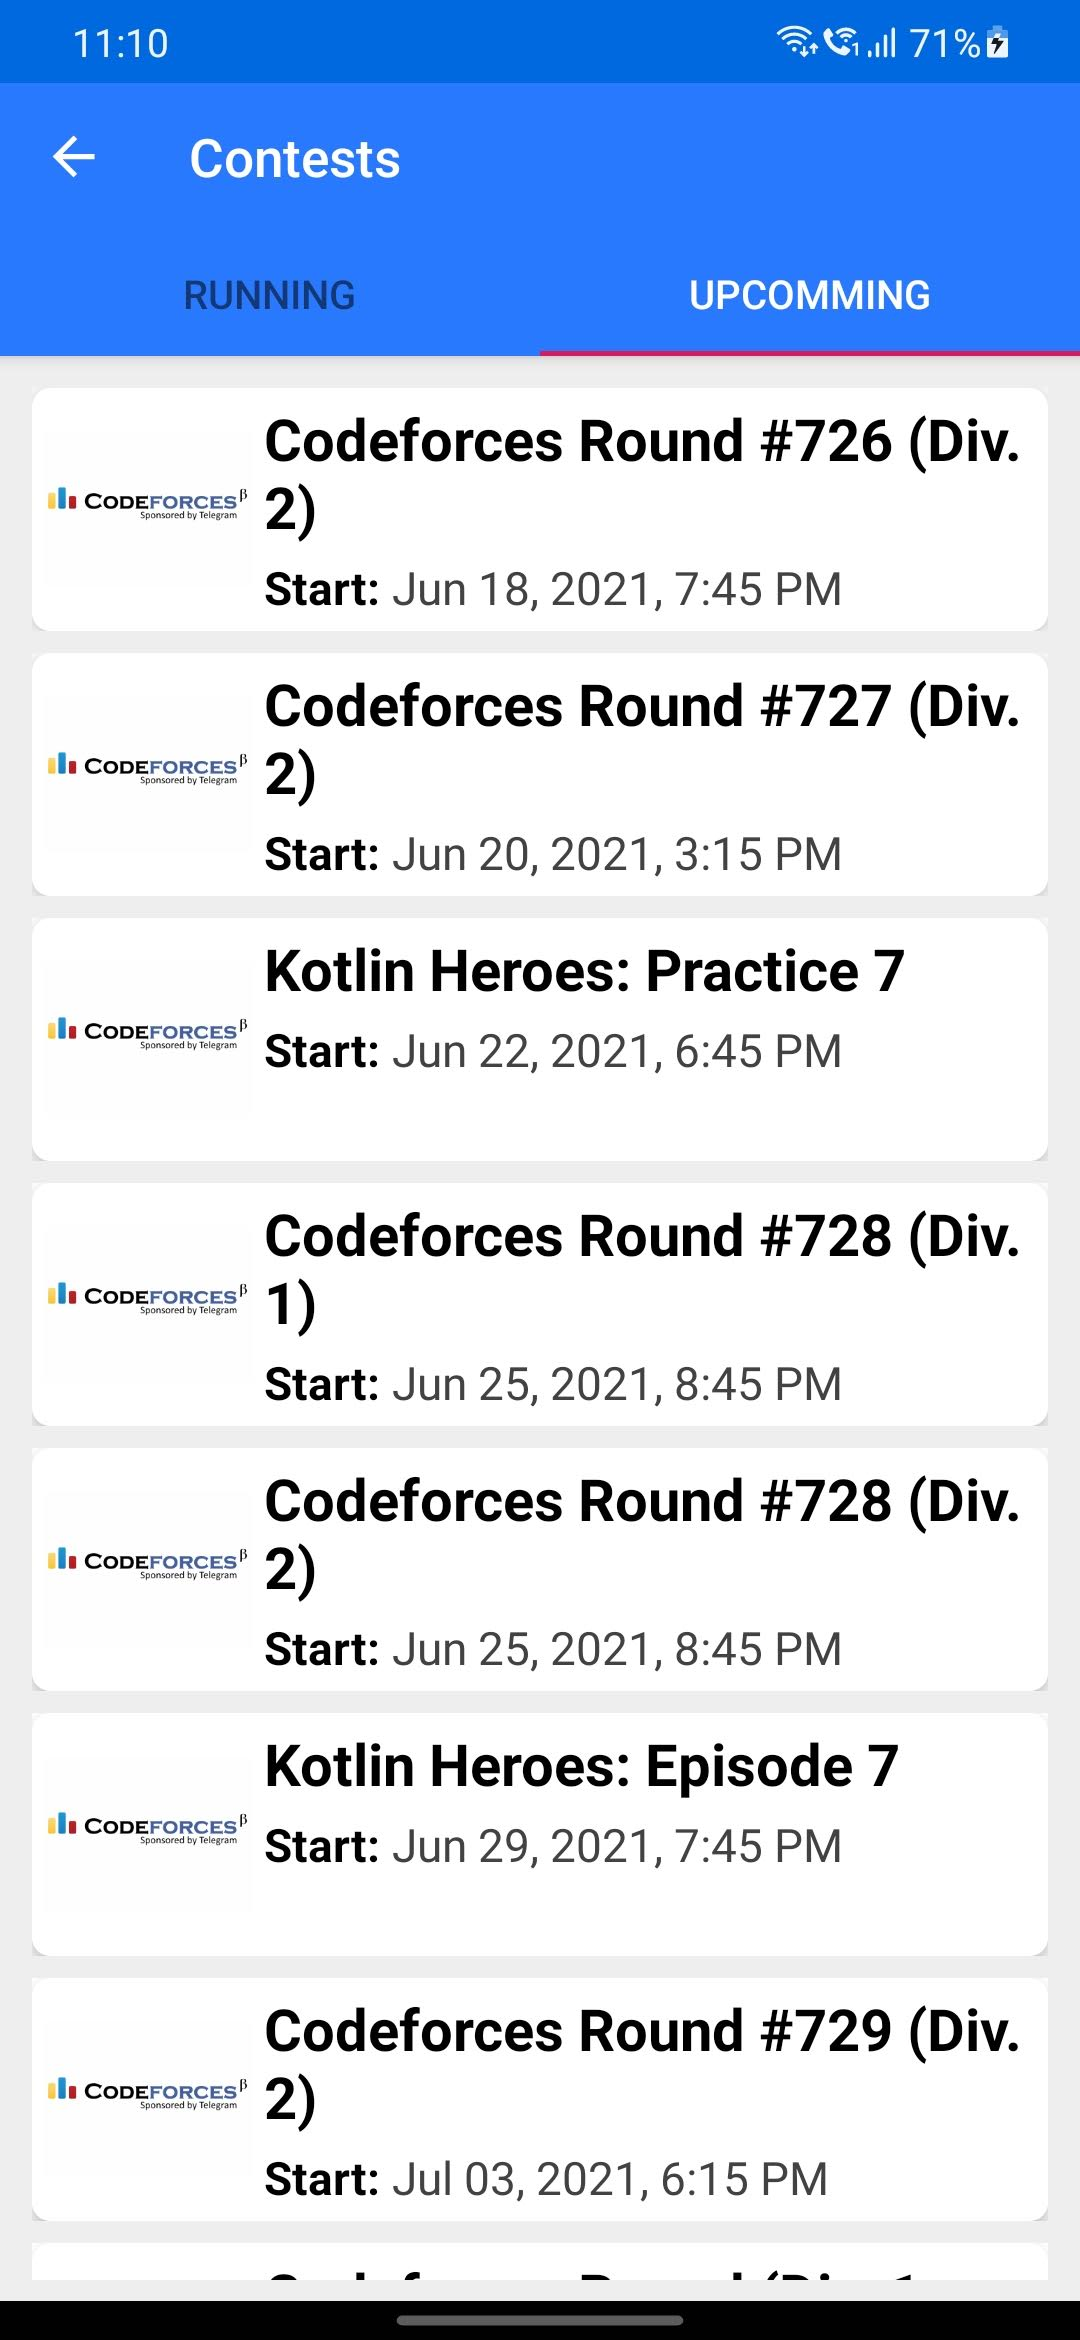
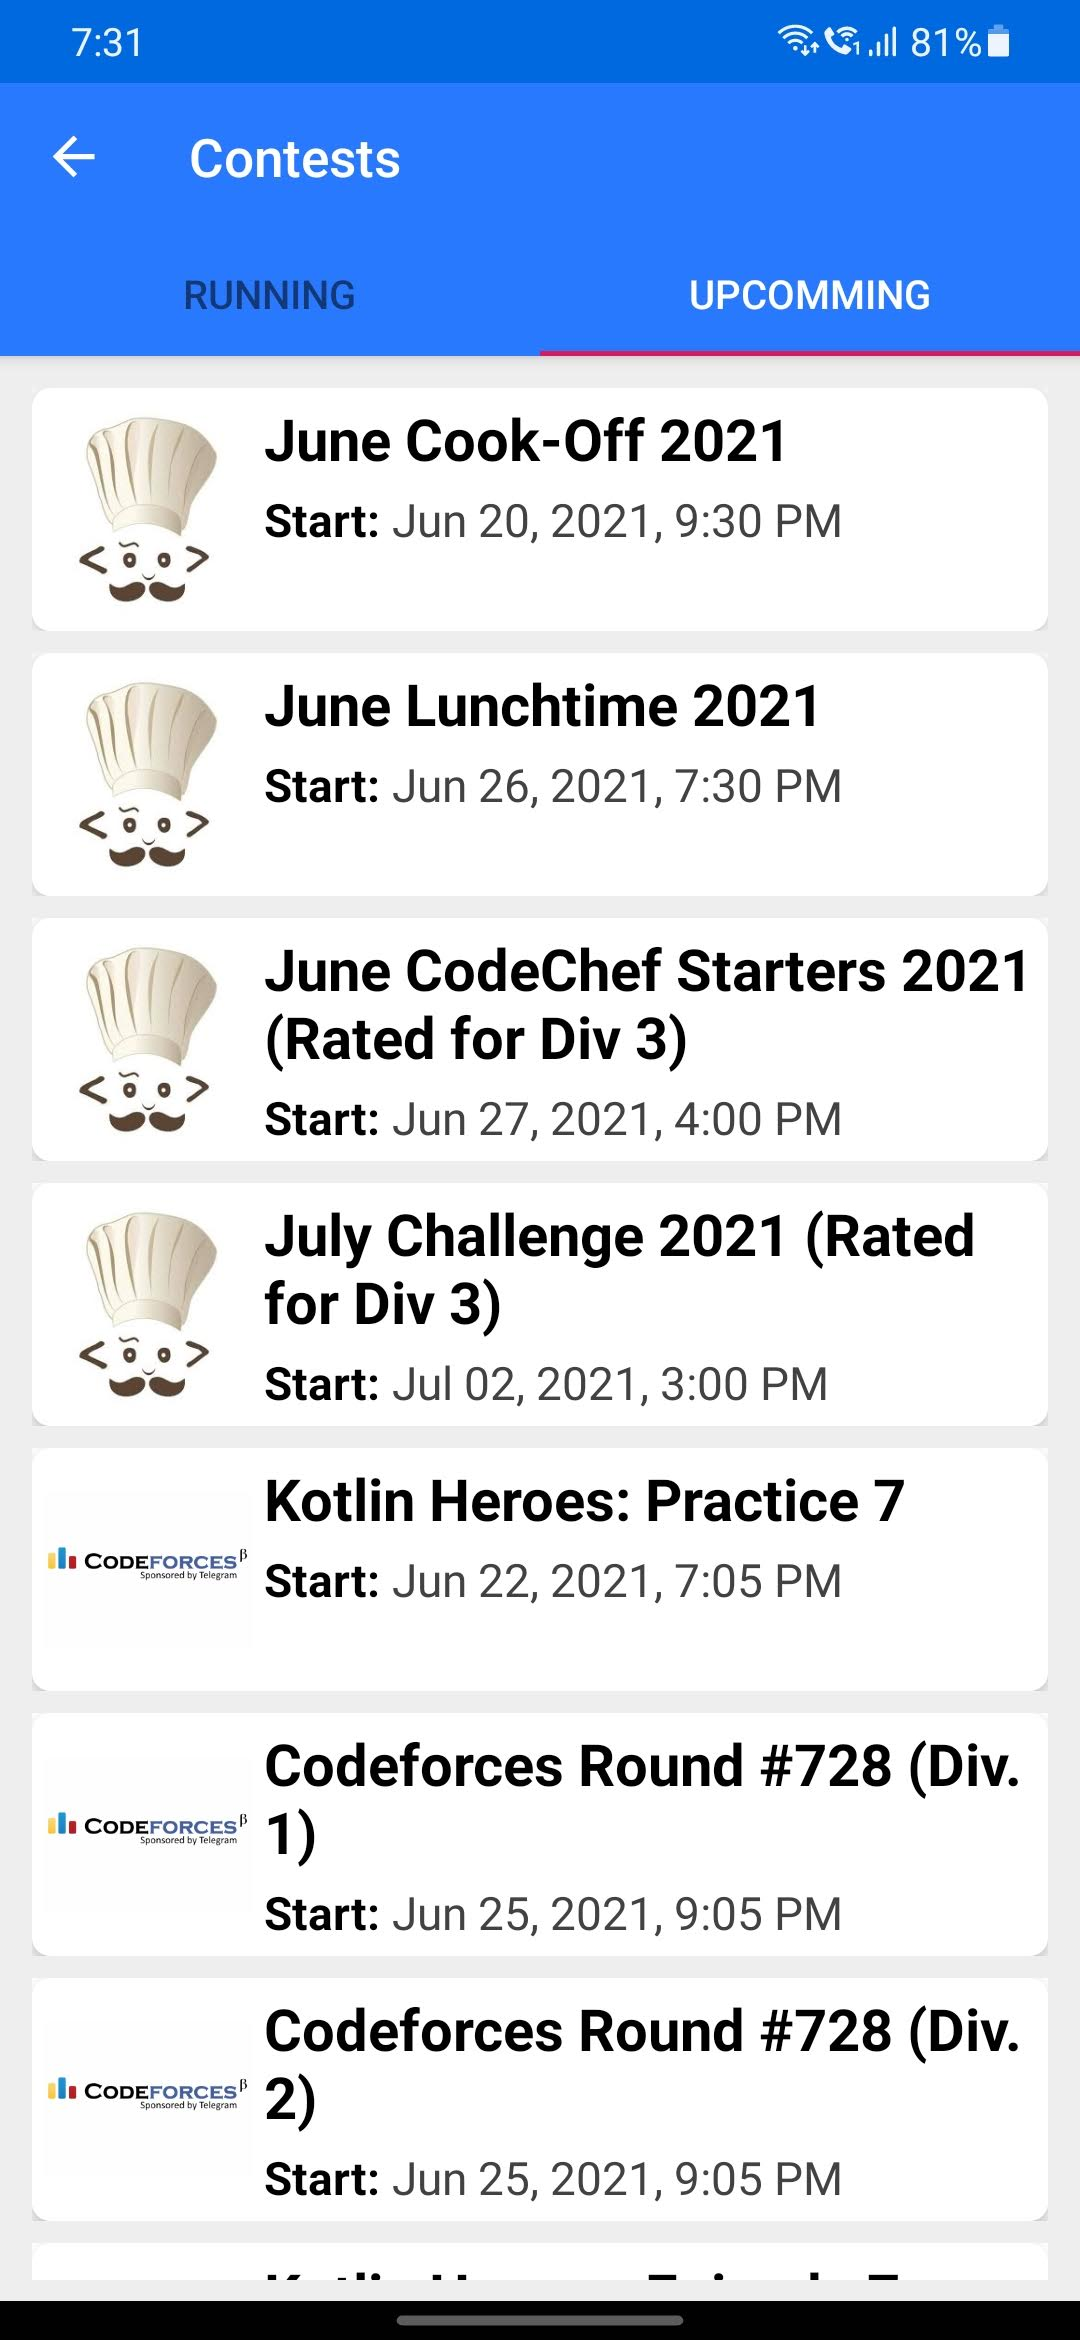
More competitive programming sites added

diff --git a/app/src/main/java/com/educational/nsutresources/Loader/DsAlgoLoader.java b/app/src/main/java/com/educational/nsutresources/Loader/DsAlgoLoader.java
@@ -5,6 +5,7 @@ import android.app.PendingIntent;
 import android.content.Context;
 import android.content.Intent;
 import android.util.Log;
+import android.util.Pair;
 
 import androidx.annotation.NonNull;
 import androidx.annotation.Nullable;
@@ -15,6 +16,9 @@ import com.educational.nsutresources.Notifications.AlertReceiver;
 import com.educational.nsutresources.Class.Contest;
 import com.educational.nsutresources.R;
 
+
+import org.json.JSONException;
+import org.json.JSONObject;
 import org.jsoup.Jsoup;
 import org.jsoup.nodes.Document;
 import org.jsoup.nodes.Element;
@@ -26,27 +30,35 @@ import java.text.SimpleDateFormat;
 import java.util.ArrayList;
 import java.util.Calendar;
 import java.util.Date;
+import java.util.HashMap;
 import java.util.Locale;
 
 public class DsAlgoLoader extends AsyncTaskLoader<ArrayList<Contest>> {
 
+    private static final HashMap<String, Pair<String, Integer>> websites = new HashMap<>();
     private Document doc = null;
-    private Document doc1 = null;
+    private final Document doc1 = null;
     int tableNo;
-    private ArrayList<Contest> contests;
-    private SimpleDateFormat ccsdf, cfsdf;
-    private Context mContext;
+    private final ArrayList<Contest> contests;
+    private final SimpleDateFormat dateFormat;
+    private final Context mContext;
 
     private int request_code;
 
     public DsAlgoLoader(@NonNull Context context, int tableNo) {
         super(context);
+        if (websites.size() == 0) {
+            websites.put("codechef.com", new Pair("Codechef", R.drawable.codechef));
+            websites.put("codeforces.com", new Pair("Codeforces", R.drawable.codeforces));
+            websites.put("leetcode.com", new Pair("Leetcode", R.drawable.leetcode));
+            websites.put("atcoder.jp", new Pair("Atcoder", R.drawable.atcoder));
+            websites.put("codingcompetitions.withgoogle.com", new Pair("Coding Competitions with Google", R.drawable.google));
+        }
         request_code = 0;
         mContext = context;
         contests = new ArrayList<>();
         this.tableNo = tableNo;
-        ccsdf = new SimpleDateFormat("dd MMM yyyy HH:mm:ss", Locale.ENGLISH);
-        cfsdf = new SimpleDateFormat("MMM/dd/yyyy HH:mm", Locale.ENGLISH);
+        dateFormat = new SimpleDateFormat("MMMM dd, yyyy HH:mm:ss", Locale.getDefault());
     }
 
     @Override
@@ -57,92 +69,57 @@ public class DsAlgoLoader extends AsyncTaskLoader<ArrayList<Contest>> {
     @Nullable
     @Override
     public ArrayList<Contest> loadInBackground() {
-
         try {
             contests.clear();
-            doc = Jsoup.connect("https://www.codechef.com/contests").get();
-            Element table = doc.select("tbody").get(tableNo);
+            doc = Jsoup.connect("https://clist.by/").get();
+            Element body = doc.select("div#contests").get(0);
+            Elements contestsElem = body.select("div.row.contest");
 
-            Elements rows = table.select("tr");
+            for (int i = 0; i < contestsElem.size(); i++) {
+                Element row = contestsElem.get(i).select("div.col-md-7").get(0);
+                Element contest = row.select("a[data-ace]").get(0);
+                String jsonString = contest.attr("data-ace");
 
-            for (int i = 0; i < rows.size(); i++) {
-                if (!rows.get(i).select("tr").isEmpty()) {
-                    Element row = rows.get(i);
-                    String name, startingTime, endTime, contestLink;
-                    if (row.select("td").hasText()) {
-                        name = row.select("td").get(1).text();
-                        startingTime = row.select("td").get(2).text();
-                        endTime = row.select("td").get(3).text();
+                JSONObject contestJSONObject = new JSONObject(jsonString);
 
-                        Calendar cal = Calendar.getInstance();
-                        cal.setTime(ccsdf.parse(startingTime));
-                        if (tableNo == 2 && (cal.getTimeInMillis() - Calendar.getInstance().getTimeInMillis()) / 60000 > 20)
-                            setNotification(cal, "Codechef", name);
+                String website, name, contestLink, startingTime, endTime;
+                website = contestJSONObject.getString("location");
+                name = contestJSONObject.getString("title");
+                contestLink = contestJSONObject.getString("desc").split(":", 2)[1].trim();
 
-                        contestLink = "https://www.codechef.com/" + row.select("a").attr("href");
-                        contests.add(new Contest(R.drawable.codechef, name, startingTime, endTime, contestLink));
-                    }
-                }
+                JSONObject timeObject = contestJSONObject.getJSONObject("time");
+                startingTime = timeObject.getString("start");
+                endTime = timeObject.getString("end");
+
+                Calendar cal = Calendar.getInstance();
+                cal.setTime(dateFormat.parse(startingTime));
+                cal.add(Calendar.HOUR, 5);
+                cal.add(Calendar.MINUTE, 30);
+                long timeDiff = (cal.getTimeInMillis() - System.currentTimeMillis()) / 1000;
+                if ((tableNo == 1 && timeDiff > 0))
+                    break;
+                else if ((tableNo == 2 && (timeDiff <= 0 || timeDiff / 2592000 > 1)) || !websites.containsKey(website))
+                    continue;
+
+                final Date stTime = cal.getTime();
+                Calendar cal2 = Calendar.getInstance();
+                cal2.setTime(dateFormat.parse(endTime));
+                cal2.add(Calendar.HOUR, 5);
+                cal2.add(Calendar.MINUTE, 30);
+                final Date enTime = cal2.getTime();
+
+                if (tableNo == 2 && timeDiff / 60 > 20)
+                    setNotification(cal, websites.get(website).first, name);
+
+                contests.add(new Contest(websites.get(website).second, name, stTime.toString(), enTime.toString(), contestLink));
             }
 
-        } catch (IOException | ParseException e) {
+        } catch (IOException | ParseException | JSONException e) {
+            Log.e("error", e.toString());
             e.printStackTrace();
         }
-
-        codeForcesContests();
 
         return contests;
-    }
-
-    private void codeForcesContests() {
-
-        try {
-            doc1 = Jsoup.connect("https://codeforces.com/contests").get();
-            Element table = doc1.select("tbody").get(0);
-
-            Elements rows = table.select("tr");
-
-            for (int i = 0; i < rows.size(); i++) {
-                if (!rows.get(i).select("tr").isEmpty()) {
-                    Element row = rows.get(i);
-                    String name, startingTime, durStr, contestLink;
-                    if (row.select("td").hasText()) {
-                        name = row.select("td").get(0).text();
-                        startingTime = row.select("td").get(2).text();
-                        durStr = row.select("td").get(3).text().split(":")[0];
-
-                        int durMills = 0;
-                        try {
-                            durMills = Integer.parseInt(durStr) * 60 * 60 * 1000;
-                        } catch (NumberFormatException nfe) {
-                            System.out.println("Could not parse " + nfe);
-                        }
-
-                        contestLink = row.select("a").attr("href");
-
-                        Calendar cal = Calendar.getInstance();
-                        cal.setTime(cfsdf.parse(startingTime));
-                        cal.add(Calendar.HOUR, 3);
-                        cal.add(Calendar.MINUTE, -30);
-                        if (tableNo == 2 && (cal.getTimeInMillis() - Calendar.getInstance().getTimeInMillis()) / 60000 > 20)
-                            setNotification(cal, "Codeforces", name);
-
-                        final Date current = Calendar.getInstance().getTime();
-                        final Date stTime = cal.getTime();
-                        final Date endTime = new Date(stTime.getTime() + durMills);
-
-                        if (stTime.compareTo(current) <= 0 && tableNo == 1) {
-                            contests.add(new Contest(R.drawable.codeforces, name, stTime.toString(), endTime.toString(), contestLink));
-                        } else if (stTime.compareTo(current) > 0 && tableNo == 2) {
-                            contests.add(new Contest(R.drawable.codeforces, name, stTime.toString(), endTime.toString(), contestLink));
-                        }
-                    }
-                }
-            }
-
-        } catch (IOException | ParseException e) {
-            e.printStackTrace();
-        }
     }
 
     private void setNotification(Calendar cal, String site, String contest) {

diff --git a/app/src/main/java/com/educational/nsutresources/Activity/AboutDevelopersActivity.java b/app/src/main/java/com/educational/nsutresources/Activity/AboutDevelopersActivity.java
@@ -140,7 +140,7 @@ public class AboutDevelopersActivity extends AppCompatActivity implements View.O
                 emailIntent.setData(Uri.parse("mailto:"));
                 emailIntent.putExtra(Intent.EXTRA_EMAIL, TO);
                 emailIntent.putExtra(Intent.EXTRA_CC, CC);
-                emailIntent.putExtra(Intent.EXTRA_SUBJECT, "Material for NSUT All In 1");
+                emailIntent.putExtra(Intent.EXTRA_SUBJECT, "Material for NSUT Resources");
                 emailIntent.putExtra(Intent.EXTRA_TEXT, "Hi, I would like to add the following resources:");
                 emailIntent.setType("message/rfc822");
 

diff --git a/README.md b/README.md
@@ -14,11 +14,11 @@ An android app that provides access to all study-related materials for NSUT stud
 
 <table>
 	<tr>
-		<td> <img src = './images/image1.jpg' height = '330'> </td>
-		<td> <img src = './images/image2.jpg' height = '330'> </td>
-		<td> <img src = './images/image3.jpg' height = '330'> </td>
-		<td> <img src = './images/image4.jpg' height = '330'> </td>
-		<td> <img src = './images/image5.jpg' height = '330'> </td>
+		<td> <img src = './images/image1.jpg' height = '300'> </td>
+		<td> <img src = './images/image2.jpg' height = '300'> </td>
+		<td> <img src = './images/image3.jpg' height = '300'> </td>
+		<td> <img src = './images/image4.jpg' height = '300'> </td>
+		<td> <img src = './images/image5.jpg' height = '300'> </td>
 	</tr>
 </table>
 
